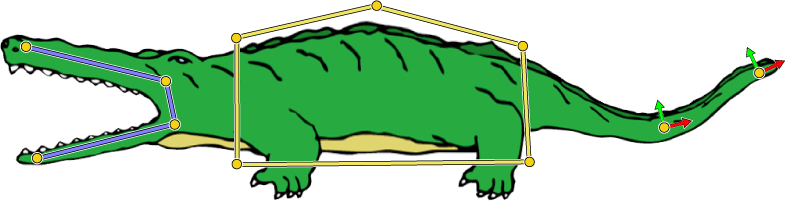
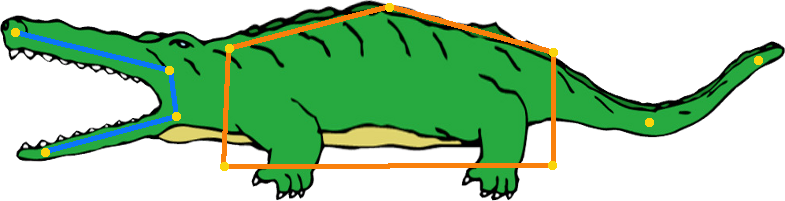
Modifications mineures

Changed region(s): [[0.0, 0.0, 1.0, 1.0]]

diff --git a/Rapport/Chapter3/chapter3.tex b/Rapport/Chapter3/chapter3.tex
@@ -125,10 +125,8 @@ cage, qui soit au moins $C^1$ partout (visuellement lisse) et dont la zone
 d'influence soit limitée.
 
 Plutôt que de mettre en place une nouvelle méthode de calcul de coordonnées
-ayant les propriétés que nous souhaitons, mais la difficulté de ce travail en
-fait un sujet de recherche en soi. Nous nous intéressons plutôt à la
-réutilisation des méthodes de calcul existantes tout en exploitant leurs
-qualités.
+ayant les propriétés que nous souhaitons nous nous intéressons plutôt à la
+réutilisation des méthodes de calcul existantes afin d'exploiter leur qualités.
 
 \subsubsection{Principe}
 
@@ -173,7 +171,7 @@ une combinaison linéaire pondérée des positions des sommets de la cage de
 contrôle. Cette technique pose un problème quant à la localité de la
 déformation. Même si la déformation s'effectue dans toute la zone d'influence,
 on souhaite que les points les plus éloignés du sommet modifié soient le moins
-affecté par la déformation engendrée.
+affectés par la déformation engendrée.
 
 A la place, on peut proposer que chaque sommet de la cage d'influence soit lié à
 un seul sommet de la cage de contrôle. Etant donné que l'on construit la cage
@@ -225,14 +223,14 @@ où $p$ correspond à la position initiale du point, $T(p)$ la position que ce
 point aurait après la déformation et $T_{d}(p)$ la position finale du point.
 
 Nous avons choisi d'interpréter ce critère $\gamma$ comme représentant la
-distance du point $p$ au centre de la cage d'influence. Nous allons utiliser
-les coordonnées que nous avons déjà calculé pour chacun des points de l'espace
-par rapport aux sommets de la cage d'influence. Ce choix a deux avantages,
-d'une part il n'est pas nécessaire de faire des calculs supplémentaires et
-d'autre part. On établit que la distance au bord $d_{inf}(p)$ doit être égale
-au produit des poids associés à chacune des arêtes de la cage d'influence. Où
-le poids associé à une arête $e_i$ correspond à la somme des poids associés
-aux sommets incidents $v_j$ à cette arête :
+distance du point $p$ au centre de la cage d'influence. Nous utilisons les
+coordonnées que nous avons déjà calculé pour chacun des points de l'espace par
+rapport aux sommets de la cage d'influence. Ce choix a l'avantage de ne pas
+nécessiter de réaliser des calculs supplémentaires. On établit que la distance
+au bord $d_{inf}(p)$ doit être égale au produit des poids associés à chacune
+des arêtes de la cage d'influence. Où le poids associé à une arête $e_i$
+correspond à la somme des poids associés aux sommets incidents $v_j$ à cette
+arête :
 
 \begin{equation}
   d_{inf}(p) = f_h( \prod_{e_i \in c_{inf}} (1 - \sum_{v_j \in e_i} \lambda_j(p)))
@@ -261,19 +259,19 @@ l'espace à l'intérieur de la cage de contrôle. On va donc définir une distan
 $d_{min}$ telle que si la distance d'un point de l'espace au bord de la cage
 d'influence est supérieure à $d_{min}$, alors la déformation de ce point ne
 sera pas atténuée. $d_{min}$ correspond à la plus courte distance d'un point
-de l'espace au bord de la cage d'influence. Plus précisément, il s'agit
-exactement de la valeur de distance du sommet de la cage de contrôle le plus
-proche du bord de la cage d'influence. Il nous suffit donc d'évaluer la valeur
-de distance en chacun des sommets de la cage de contrôle par rapport au bord
-de la cage d'influence et de les comparer afin de trouver la distance minimale
-:
+de l'espace (inclus dans la cage de contrôle) au bord de la cage d'influence.
+Plus précisément, il s'agit exactement de la valeur de distance du sommet de
+la cage de contrôle le plus proche du bord de la cage d'influence. Il nous
+suffit donc d'évaluer la valeur de distance en chacun des sommets de la cage
+de contrôle par rapport au bord de la cage d'influence et de les comparer afin
+de trouver la distance minimale :
 
 \begin{equation}
-  d_{min} = \min_{\forall v_{ctrl}} d_{inf}(v_{ctrl})
+  d_{min} = \min_{\forall v_{ctrl}} d_{inf}(v_{ctrl}).
 \end{equation}
 
-La variation de l'atténuation sera plus douce lorsque la différence de taille
-entre la cage de contrôle et la cage d'influence sera grande (Figure
+Plus la différence de taille entre la cage de contrôle et la cage d'influence
+est grande, plus l'atténuation de la déformation est douce (Figure
 \ref{MELBou}).
 
 \begin{figure}[ht]
@@ -338,7 +336,7 @@ combiner plusieurs cages coninf sur un même modèle (Figure \ref{MELMC}).
 L'objectif de cette partie consiste à trouver une formule de mélange
 permettant la modification de la position d'un point de l'espace par rapport à
 plusieurs cages coninf. De manière à ce que la déformation résultant du
-mélange soit visuellement lisse
+mélange soit visuellement lisse.
 
 \begin{figure}[ht]
   \begin{center}

diff --git a/Rapport/Chapter1/chapter1.tex b/Rapport/Chapter1/chapter1.tex
@@ -71,7 +71,7 @@ courbes paramétriques), à savoir le manque de contrôle local.
 \begin{center}
   \includegraphics{chapter1-bezierPara-pstricks}
   \caption[Volume de Bézier parallélépipédique] {Vue en coupe d'un volume de
-  Bézier parallélépipédique}
+  Bézier parallélépipédique.}
   \label{SURPar}
 \end{center}
 \end{figure}
@@ -102,7 +102,7 @@ se sont plutôt intéressés aux volumes de subdivision de topologie quelconque.
 \begin{center}
 	\includegraphics{chapter1-bezierTetra-pstricks}
   \caption[Volume de Bézier tétraédrique] {Vue en coupe d'un volume de
-  Bézier tétraédrique}
+  Bézier tétraédrique.}
   \label{SURTet}
 \end{center}
 \end{figure}
@@ -137,7 +137,7 @@ par \cite{JL00}. Cette technique déforme aussi l'espace de façon globale.
 
  \begin{figure}[ht]
  \begin{center}
-  \includegraphics[scale=0.5]{chapter1-pstricks.pdf}
+  \includegraphics[scale=0.5]{chapter1-noyau-pstricks}
 
   \caption[Noyau d'un polygone] {En rouge le noyau d'un polygone de forme
 étoilée représenté par son bord, en noir (en 2D). Les points de contrôle sont

diff --git a/Rapport/Chapter2/chapter2.tex b/Rapport/Chapter2/chapter2.tex
@@ -45,7 +45,7 @@ utilisant chaque méthode.
 \includegraphics[scale=0.25]{Deformation-Texte-Avant}
 
 \caption[Texte avant déformation] {Texte avant déformation. La cage est
-représentée par son bord, en rose. (Image de \cite{LLC08})}
+représentée par son bord, en orange. (Image de \cite{LLC08})}
 
 \label{DEFAva}
 \end{center}
@@ -216,7 +216,7 @@ $v_{i-1}$ et $v_{i+1}$ (Figure \ref{DEFcal}).
 
 \begin{figure}[ht]
   \begin{center}
-    \includegraphics[scale=0.9]{chapter2-pstricks.pdf}
+    \includegraphics[scale=0.9]{chapter2-MVC-pstricks}
 
     \caption[Méthode de calcul MVC] {Méthode de calcul de la coordonnée $w_i$
 du point $p$ par rapport au sommet $v_i$}
@@ -272,7 +272,7 @@ l'arête $E = [v_i,v_{i+1}]$, l'angle $\alpha_i$ vaut $\pi$ (Figure
 
 \begin{figure}[ht]
   \begin{center}
-    \includegraphics[scale=0.9]{chapter2-pstricks-2.pdf}
+    \includegraphics[scale=0.9]{chapter2-MVC-notWorking-pstricks}
 
     \caption[Cas particulier MVC] {Situation dans laquelle les
 formules de calcul de coordonnées ne sont plus correctes.}
